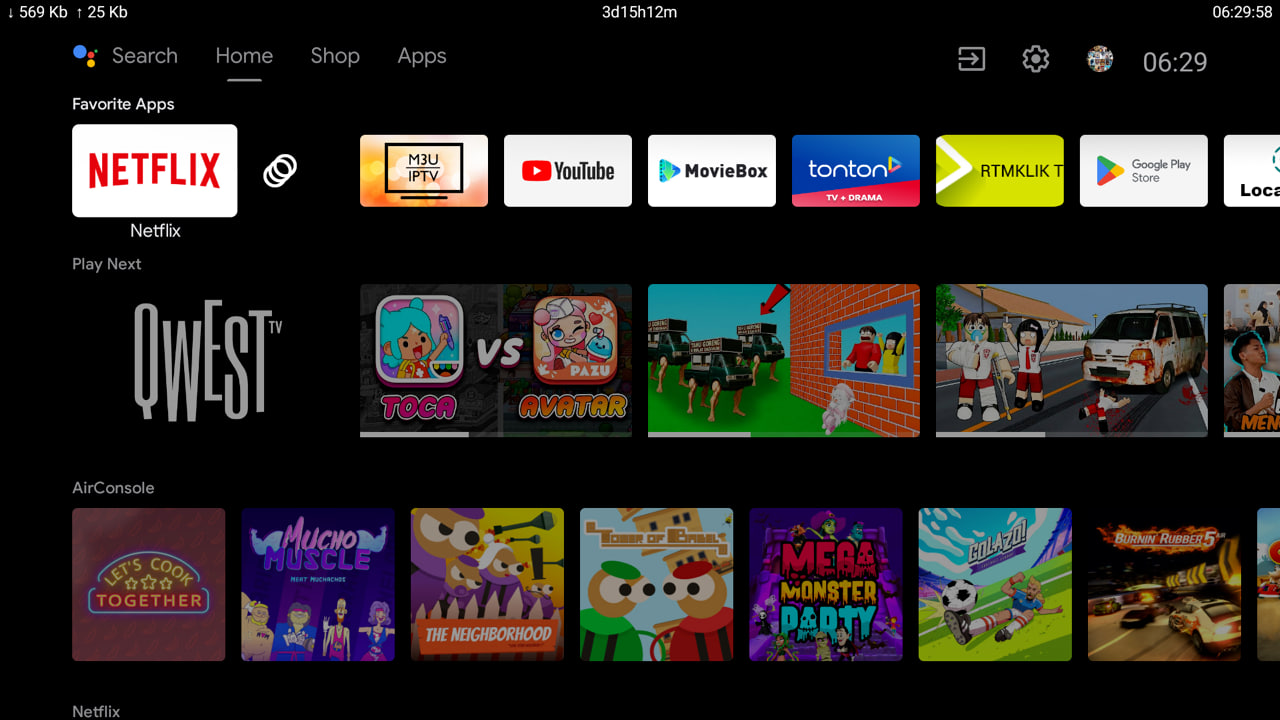
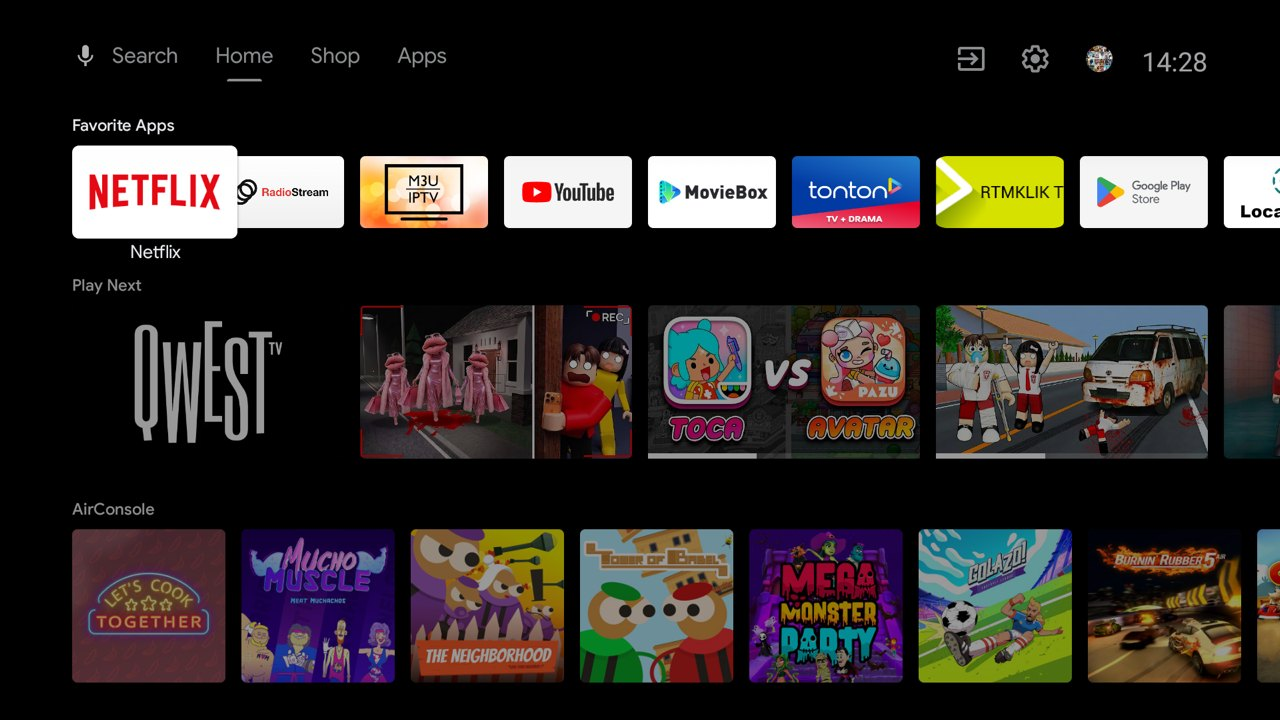
feat: Update README with new features and screenshots; bump version to 1.2

diff --git a/PROMPT.md b/PROMPT.md
@@ -22,7 +22,7 @@ Before you start, ask me (one checklist, not one question at a time):
 - Which installed apps I actually use, so you know what must never be touched. List the third-party and notable system apps you find and let me tick them.
 - Which apps go in the dock, left to right (up to 5).
 - Whether to keep: Google Assistant / voice search, Chromecast, screen mirroring (Miracast/MiPlay), manufacturer system updates, the manufacturer's own home/content app.
-- Which optional launcher features I want: phone remote, Now Playing card, system card, most-used card, prayer times (and which zone), ad-blocking Private DNS.
+- Which optional launcher features I want: phone remote, Now Playing card, system card, most-used card, prayer times (and which zone), notifications bell, running-apps screen, built-in wallpapers, ad-blocking Private DNS.
 
 Use the answers instead of guessing. Ask again whenever something depends on my preferences.
 
@@ -55,24 +55,29 @@ Optional speed tweaks (ask first, log each one so restore.sh undoes it)
 
 Launcher
 - First check the TV's SDK level (`getprop ro.build.version.sdk`) and that it accepts sideloaded APKs.
-- Native Android, Java, no Kotlin, no Compose, no Leanback library. AndroidX RecyclerView only. `minSdk` = the TV's SDK, `targetSdk` 36 (some Google TV 14 sets refuse old targets). R8 release build with `shrinkResources`, signed with the debug key so reinstalls upgrade in place. Aim for an APK around 0.5 MB.
+- Native Android, Java, no Kotlin, no Compose, no Leanback library. AndroidX RecyclerView only. `minSdk` = the TV's SDK, `targetSdk` 36 (some Google TV 14 sets refuse old targets). R8 release build with `shrinkResources`, signed with the debug key so reinstalls upgrade in place. Aim for an APK under about 0.6 MB.
 - HOME + LEANBACK_LAUNCHER intent filters, `singleTask`, landscape. Add `<queries>` for LEANBACK_LAUNCHER and LAUNCHER intents or the app grid comes up empty on Android 11+.
-- Look: pitch black background (optional wallpaper from `files/wallpaper.jpg`, dimmed), the Outfit variable font (SIL OFL) bundled in assets, rounded banner tiles. One translucent "glass" focus highlight that springs to the focused tile, and only runs frame callbacks while it moves.
+- Look: dark background or a wallpaper (see below), the Outfit variable font (SIL OFL) bundled in assets, rounded banner tiles. One translucent "glass" focus highlight that springs to the focused tile, and only runs frame callbacks while it moves.
 - Layout, top to bottom:
-  - Top bar: big clock with the date beside it; pills for **Inputs** (dropdown: HDMI 1–3, AV, Live TV, via the TV input framework / `TvContract`), **Wi-Fi** (network name, opens Wi-Fi settings) and **Settings**.
+  - Top bar: big clock with the date beside it; round icon buttons for the **bell** (notifications), **Inputs** (dropdown: HDMI 1–3, AV, Live TV, via the TV input framework / `TvContract`), **Wi-Fi** (state by colour, opens Wi-Fi settings) and **Settings** (the launcher's own settings page).
   - Cards on the left under the clock, for whichever optional features I picked.
   - Dock near the bottom: the focused app's name large above it, with a soft glow in a vivid colour sampled from its banner. The first row of the app grid peeks under the dock, faded.
   - Down from the dock slides up to all other apps (5 per row), with a fade at the top edge as rows scroll under it.
-- Focus: don't rely on Android's focus search. Drive it from `dispatchKeyEvent` with a small state machine (section + index), so every key has exactly one outcome. Up/Down move exactly one row; Up from the dock goes to the top bar; row and bar ends don't wrap; Back returns to the dock; Home while home jumps to the dock. Remember the last focused tile in SharedPreferences, so it survives the TV killing the launcher.
+  - Up from the top bar slides a screen down from above (the running-apps screen, if I picked it).
+- Focus: don't rely on Android's focus search. Drive it from `dispatchKeyEvent` with a small state machine (section + index), so every key has exactly one outcome. Up/Down move exactly one row; Up from the dock goes to the top bar; row and bar ends don't wrap; Back returns to the dock; Home while home jumps to the dock. Android pauses the activity before delivering the Home intent, so detect "already home" as "not stopped since the last resume", not by checking whether it's resumed. Remember the last focused tile in SharedPreferences, so it survives the TV killing the launcher.
 - Apps: LEANBACK_LAUNCHER apps, plus sideloaded apps that only have a LAUNCHER entry. Hide system apps with only a phone-style entry (setup leftovers), with an allowlist in `res/values/apps.xml`. New apps appear on their own (listen for package changes).
-- Dock order from `res/values/dock.xml`, overridable without rebuilding by a `dock.txt` (one package per line) in the app's external files dir.
+- Dock: default order from `res/values/dock.xml`; my edits are saved to a `dock.txt` (one package per line) in the app's external files dir. Edit it on the TV (hold OK or Menu on a tile: move, remove, add, replace) and from the phone remote. Skip apps that aren't installed instead of leaving a gap.
 - Performance is the point. No blur, no video, no network polling. Render each tile once to an RGB_565 bitmap off the main thread. Update the clock from `ACTION_TIME_TICK`. Anything that refreshes runs only while home is resumed **and** has window focus (the screensaver covers home without pausing it). Free tile bitmaps after ~30 s with another app in front and redraw on return.
 - Optional cards and features (only the ones I picked):
-  - **System card:** CPU clock (average of cores), RAM, storage (`/data`), uptime, IP, Wi-Fi signal and link speed, Private DNS, USB debugging state (amber "ON :5555" / green "OFF", updated live). Many TVs block `/proc/stat`, `/proc/loadavg` and thermal zones via SELinux; detect what's readable and show the CPU clock if true load isn't. Sample every 2 s only while visible.
+  - **System card:** CPU clock (average of cores), RAM (round the kernel's total up to the installed size, e.g. 1.76 → 2 GB; the firmware's video reserve counts as used), storage for the whole chip as Settings shows it (`StorageStatsManager.getTotalBytes`, decimal GB; not just `/data`), uptime, IP, Wi-Fi signal and link speed, Private DNS, USB debugging state (amber "ON :5555" / green "OFF", updated live). Many TVs block `/proc/stat`, `/proc/loadavg` and thermal zones via SELinux; detect what's readable and show the CPU clock if true load isn't. Sample every 2 s only while visible.
   - **Most used card:** top 5 apps over 7 days from `UsageStatsManager`, and the grid sorted the same way (unused apps A–Z after). Count visible time, not "foreground" time (Live TV showing HDMI barely counts as foreground). Count foreground-service time only on days the app was also visible, because always-on system services log fake whole-day times. Exclude Live TV. Grant with `appops set <pkg> GET_USAGE_STATS allow`.
   - **Now Playing card:** cover, title, artist, app, progress (or LIVE for streams), Play/Pause, Stop, Open app. Low-RAM TVs often refuse notification-listener access; if so, check `AudioManager.isMusicActive()` every few seconds and only then read `dumpsys media_session` (grant `android.permission.DUMP` over ADB). While USB debugging is on, a small helper run as the shell user via `app_process` over a loopback ADB connection can report cover art and position too.
   - **Prayer times card** (Malaysia: JAKIM e-solat `takwimsolat&period=month&zone=<ZONE>`): today's five prayers, the next one highlighted with a countdown, Hijri date beside the clock. Fetch a month once, cache it, refetch on month change or when the network returns (at most once a minute).
   - **Phone remote:** a foreground service with a tiny HTTP server (e.g. port 8486) serving one self-contained HTML page: D-pad by swipe, Back, Home, Play/Pause, volume, an app list, inputs, and a Files tab (browse/upload/download internal storage and USB drives, open a file on the TV). Pair with a 4-digit PIN shown on the TV through an overlay window (`SYSTEM_ALERT_WINDOW`), void it after 5 wrong tries, then use a token. Refuse requests whose Host isn't an IP (DNS rebinding). Canonicalise every file path and keep it inside the storage roots. Back/Home in other apps through an accessibility service that only calls `performGlobalAction` and doesn't read the screen; append it to `enabled_accessibility_services`, never replace what's there. D-pad and typing inside other apps are only possible with ADB: open a loopback ADB connection (`dadb`) to `127.0.0.1:5555` and create virtual HID devices with the `hid` command via `/dev/uhid`. Use a keypad without letter keys (so the on-screen keyboard still appears) and a separate keyboard only while typing.
+  - **Notifications bell:** an amber count badge and a dropdown of the newest alerts, fed by a background service: Play Store "updates available" notifications read from `dumpsys notification --noredact` every 6 h (notification-listener access is refused on low-RAM TVs; needs DUMP and PACKAGE_USAGE_STATS), new HDMI-CEC devices (TvInputManager child inputs), Bluetooth devices connecting/disconnecting (ignore the TV remote and quick reconnects), and memory above a level. A small banner over any app for device/memory alerts and Wi-Fi changes (overlay window).
+  - **Running-apps screen:** three borderless columns, the first listing launchable apps that have a process (parse `dumpsys activity lru`; only `TOP` counts as "on screen"), with memory (VmRSS from `/proc/<pid>/status` read over the loopback ADB shell) and a round ✕ to force-close (`am force-stop` over ADB; otherwise `killBackgroundProcesses`, and say it can't stop playing apps). Hold OK: hide from the list / force close / open. Never list apps with an enabled accessibility service (e.g. a button remapper).
+  - **Settings page** (the gear): categories on the left, rows on the right (switches, choices that cycle on OK, pickers that open a list). One prefs-backed store with listeners so changes apply straight away: prayer zone (every JAKIM zone, from e-solat's zone list), which cards show (the column closes up), 12/24-hour clock, apps left out of most-used, each notification source and the memory level, connection banner, phone remote on/off and "forget all phones", hidden running apps, and About (version, APK size, a row that opens the TV's own Settings). Defaults must equal the old behaviour.
+  - **Wallpapers:** a few photos from Wikimedia Commons *Featured pictures* (check each licence; show the credit in the list and the README), downloaded once at 1920 px and cached in app storage, not bundled in the APK. Plus every picture in a `Wallpapers` folder on internal storage (the phone remote's Files tab gets a shortcut to it). In the list, moving the focus previews a wallpaper behind Settings, OK sets it, Back restores the saved one. Decode at screen size in RGB_565, dim it (setting), and soften the dark shadows that were tuned for a black background.
 - `scripts/build-and-install.sh`: build the release APK, push and `pm install -r`, then grant everything over ADB right after install (storage first: Android 10 fixes an app's storage access when its process starts; `ACCESS_FINE_LOCATION` so the Wi-Fi name is readable; usage stats; overlay; DUMP; the accessibility service), then `cmd package set-home-activity <pkg>/.MainActivity`. Several apps claim HOME on these TVs (factory test, FallbackHome), so set it explicitly. `--disable-stock` also disables the stock launcher through `disable.sh`, because while it's enabled its higher priority wins.
 - Adding a permission like INTERNET to an already-installed app may not reach the network firewall on Android 10 (sockets fail with `EPERM`). If that happens, uninstall and reinstall cleanly.
 

diff --git a/README.md b/README.md
@@ -8,23 +8,82 @@ Done on 2026-10-20. Every step was checked with screenshots pulled from the TV (
 <table>
   <tr>
     <th width="50%">Before: stock Android TV home</th>
-    <th width="50%">After: this launcher</th>
+    <th width="50%">After: this launcher (v1.2)</th>
   </tr>
   <tr>
     <td width="50%"><img src="docs/launcher-old.jpg" width="100%" alt="Stock Android TV home screen with Favorite Apps, Play Next and AirConsole rows"></td>
-    <td width="50%"><img src="docs/launcher-new.jpg" width="100%" alt="New launcher: clock, prayer times, most used apps, system card, Now Playing and a five-app dock"></td>
+    <td width="50%"><img src="docs/home.jpg" width="100%" alt="New launcher over the Stargazer wallpaper: clock, Hijri date, prayer times, most used apps, system card, Now Playing and a five-app dock"></td>
   </tr>
   <tr>
     <td valign="top">Rows of recommendations and sponsored content, with your apps squeezed into one line.</td>
-    <td valign="top">A clock with the Hijri date, prayer times, your most used apps, a live system card and Now Playing with media controls. Below them, a five-app dock with the focused app's name and a glow in its colour. Press Down for all other apps.</td>
+    <td valign="top">Your apps, the time and what matters at a glance: prayer times, most used apps, a live system card and Now Playing, over a calm wallpaper.</td>
   </tr>
 </table>
+
+## Features
+
+<table>
+  <tr>
+    <td width="50%"><img src="docs/home.jpg" width="100%" alt="Home screen"></td>
+    <td width="50%"><img src="docs/app-grid.jpg" width="100%" alt="All apps grid"></td>
+  </tr>
+  <tr>
+    <td valign="top"><b>Home</b>: big clock with the date and Hijri date, today's prayer times with a countdown, your most used apps this week, a system card (CPU, RAM, storage, network, USB debugging), Now Playing with cover art and controls, and a five-app dock you arrange yourself.</td>
+    <td valign="top"><b>All apps</b> (Down from the dock): five per row, most used first, with a glass focus highlight that springs from tile to tile. Hold OK on any app to add it to the dock.</td>
+  </tr>
+  <tr>
+    <td width="50%"><img src="docs/running-apps.jpg" width="100%" alt="Running apps screen"></td>
+    <td width="50%"><img src="docs/settings.jpg" width="100%" alt="Settings"></td>
+  </tr>
+  <tr>
+    <td valign="top"><b>Running apps</b> (Up from the top bar): what's running, how much memory each app uses and what it's doing. OK force-closes; hold OK to hide an app from the list.</td>
+    <td valign="top"><b>Settings</b> (the gear): prayer zone (all 60 JAKIM zones), which cards show, 12/24-hour clock, wallpaper, what the bell tells you, the phone remote, and more. Changes apply straight away.</td>
+  </tr>
+  <tr>
+    <td width="50%"><img src="docs/dock-reorder.jpg" width="100%" alt="Hold OK on a dock app: Move, Remove from dock, Open"></td>
+    <td width="50%"><img src="docs/running-apps-hide.jpg" width="100%" alt="Hold OK on a running app: hide from this list, force close, open"></td>
+  </tr>
+  <tr>
+    <td valign="top"><b>Your dock, your order</b>: hold OK on a dock app for <b>Move</b> (◀ ▶, then OK to place), <b>Remove from dock</b> or <b>Open</b>; hold OK on any app in the grid to add it. The phone remote can edit the dock too.</td>
+    <td valign="top"><b>Hide apps you never close</b>: hold OK on a running app and choose <b>Hide from this list</b>. Hidden apps wait under a "Hidden apps" row at the bottom, and Settings → Running apps brings them back.</td>
+  </tr>
+  <tr>
+    <td width="50%"><img src="docs/wallpapers.jpg" width="100%" alt="Wallpaper list"></td>
+    <td width="50%" valign="top">
+      <b>Also:</b>
+      <ul>
+        <li><b>Wallpapers</b>: seven photos from Wikimedia Commons, previewed as you move through the list, plus your own pictures from a <code>Wallpapers</code> folder.</li>
+        <li><b>Notifications bell</b>: Play Store updates, new HDMI devices, Bluetooth devices and low memory.</li>
+        <li><b>Connection banner</b> over any app when Wi-Fi drops or loses internet.</li>
+        <li><b>Inputs</b> menu for HDMI 1–3, AV and Live TV.</li>
+        <li>Light: a 0.6 MB app that uses about half the stock launcher's memory, with less than half its janky frames (<a href="#benchmark-this-launcher-vs-the-stock-launcher-2026-10-22">benchmark</a>).</li>
+      </ul>
+    </td>
+  </tr>
+  <tr>
+    <td valign="top"><b>Wallpapers</b>: move to preview, OK to set. Add your own from the phone remote's Files tab.</td>
+    <td></td>
+  </tr>
+</table>
+
+<table>
+  <tr>
+    <td align="center" width="33%"><img src="docs/tvremote.jpg" alt="Phone remote: touchpad, Back, Home, Play/Pause, volume, keyboard"></td>
+    <td align="center" width="33%"><img src="docs/tvremote-applist.jpg" alt="Phone remote: app list"></td>
+    <td align="center" width="33%"><img src="docs/tvremote-sendfile.jpg" alt="Phone remote: TV storage with upload"></td>
+  </tr>
+  <tr>
+    <td colspan="3" align="center"><b>Phone remote</b> in the phone's browser, no app to install: swipe to move, type into any app, open apps, switch inputs, edit the dock and send files to the TV. See <a href="#phone-remote">Phone remote</a>.</td>
+  </tr>
+</table>
+
+## Folder structure
 
 ```
 MiTV-Debloat/
 ├── README.md
 ├── PROMPT.md                    paste into an AI coding assistant to repeat this setup on another TV
-├── docs/                        README screenshots (before/after, phone remote)
+├── docs/                        README screenshots (before/after, features, phone remote)
 ├── backup/                      state captured BEFORE any change (local only, not in the repo: it identifies the TV)
 │   ├── disabled-by-us.txt       every package this project disabled (restore.sh reads it)
 │   ├── packages-*.txt           full package lists (all, system, third-party, disabled)
@@ -33,7 +92,7 @@ MiTV-Debloat/
 │   └── dumpsys/                 activities/services of every manufacturer package that was checked
 ├── launcher/                    the launcher source (Java, AndroidX RecyclerView, minSdk 29, targetSdk 36), incl. the phone remote
 ├── scripts/
-│   ├── build-and-install.sh     build the launcher (R8 release, ~0.5 MB APK), install it, make it the home screen
+│   ├── build-and-install.sh     build the launcher (R8 release, ~0.6 MB APK), install it, make it the home screen
 │   ├── benchmark.sh             measure a launcher's memory, CPU, start-up and smoothness
 │   ├── restore.sh               undo everything
 │   ├── disable.sh               disable packages (and log them so restore.sh can undo)
@@ -115,9 +174,10 @@ adb shell settings put global private_dns_mode opportunistic
 ## The launcher
 
 - **Dock:** Netflix · YouTube · TV Manager · Gallery · Play Store by default (change it from the TV or phone, see "Change the dock"). The focused app's name appears large above the dock, with a glow in a colour taken from its banner.
-- **Top bar:**
+- **Top bar** (round icon buttons):
+  - **Bell** shows notifications (see below).
   - **Inputs** opens a dropdown with HDMI 1–3, AV and Live TV. It switches through the TV input framework.
-  - **Wi-Fi** shows the network name and opens Wi-Fi settings.
+  - **Wi-Fi** shows the connection state by colour and opens Wi-Fi settings.
   - **Settings** (gear) opens the launcher's own Settings (see below); its last row, **About → TV settings**, opens the TV's Settings.
 - **Remote:**
   - Down from the dock slides up to all other apps (5 per row). Up/Down always move exactly one row.
@@ -126,8 +186,8 @@ adb shell settings put global private_dns_mode opportunistic
   - Back returns to the dock.
   - Home while already home jumps back to the dock.
 - **Focus memory:** the last focused tile is remembered, even if the TV kills the launcher.
-- **Resource use:** about 90 MB of RAM and 0% CPU when idle. There is no blur, video or network polling; the clock updates from the system's minute tick.
-- **New apps:** they appear automatically, sorted A–Z.
+- **Resource use:** about 45–75 MB of memory (see the benchmark). There is no blur, video or network polling; the clock updates from the system's minute tick.
+- **New apps:** they appear automatically; the grid lists your most used apps first, then the rest A–Z.
 
 ### Date, Hijri date and prayer times
 
